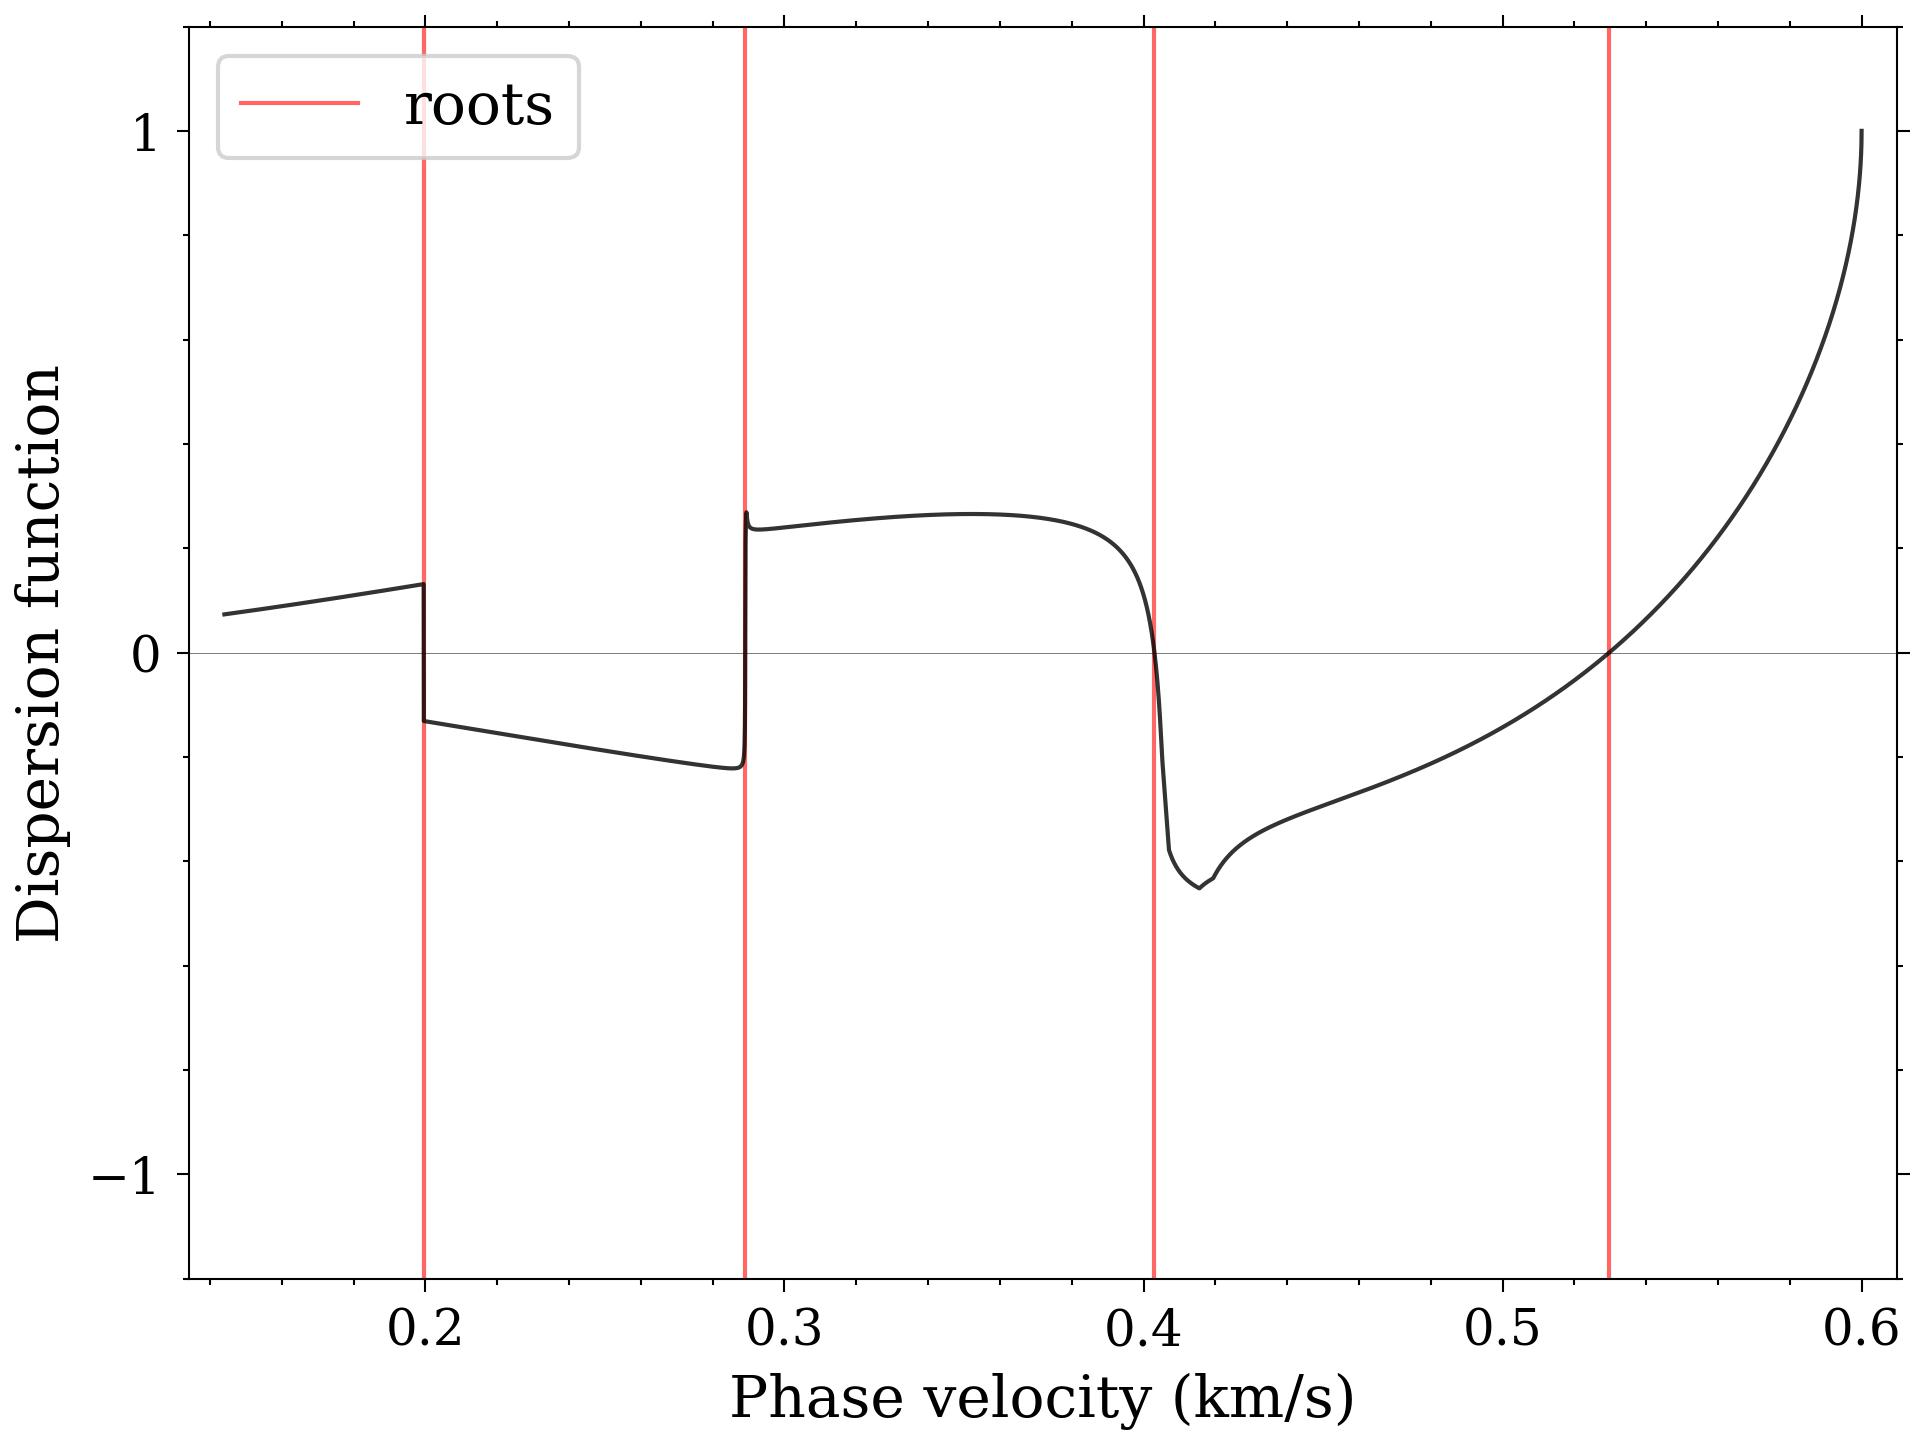
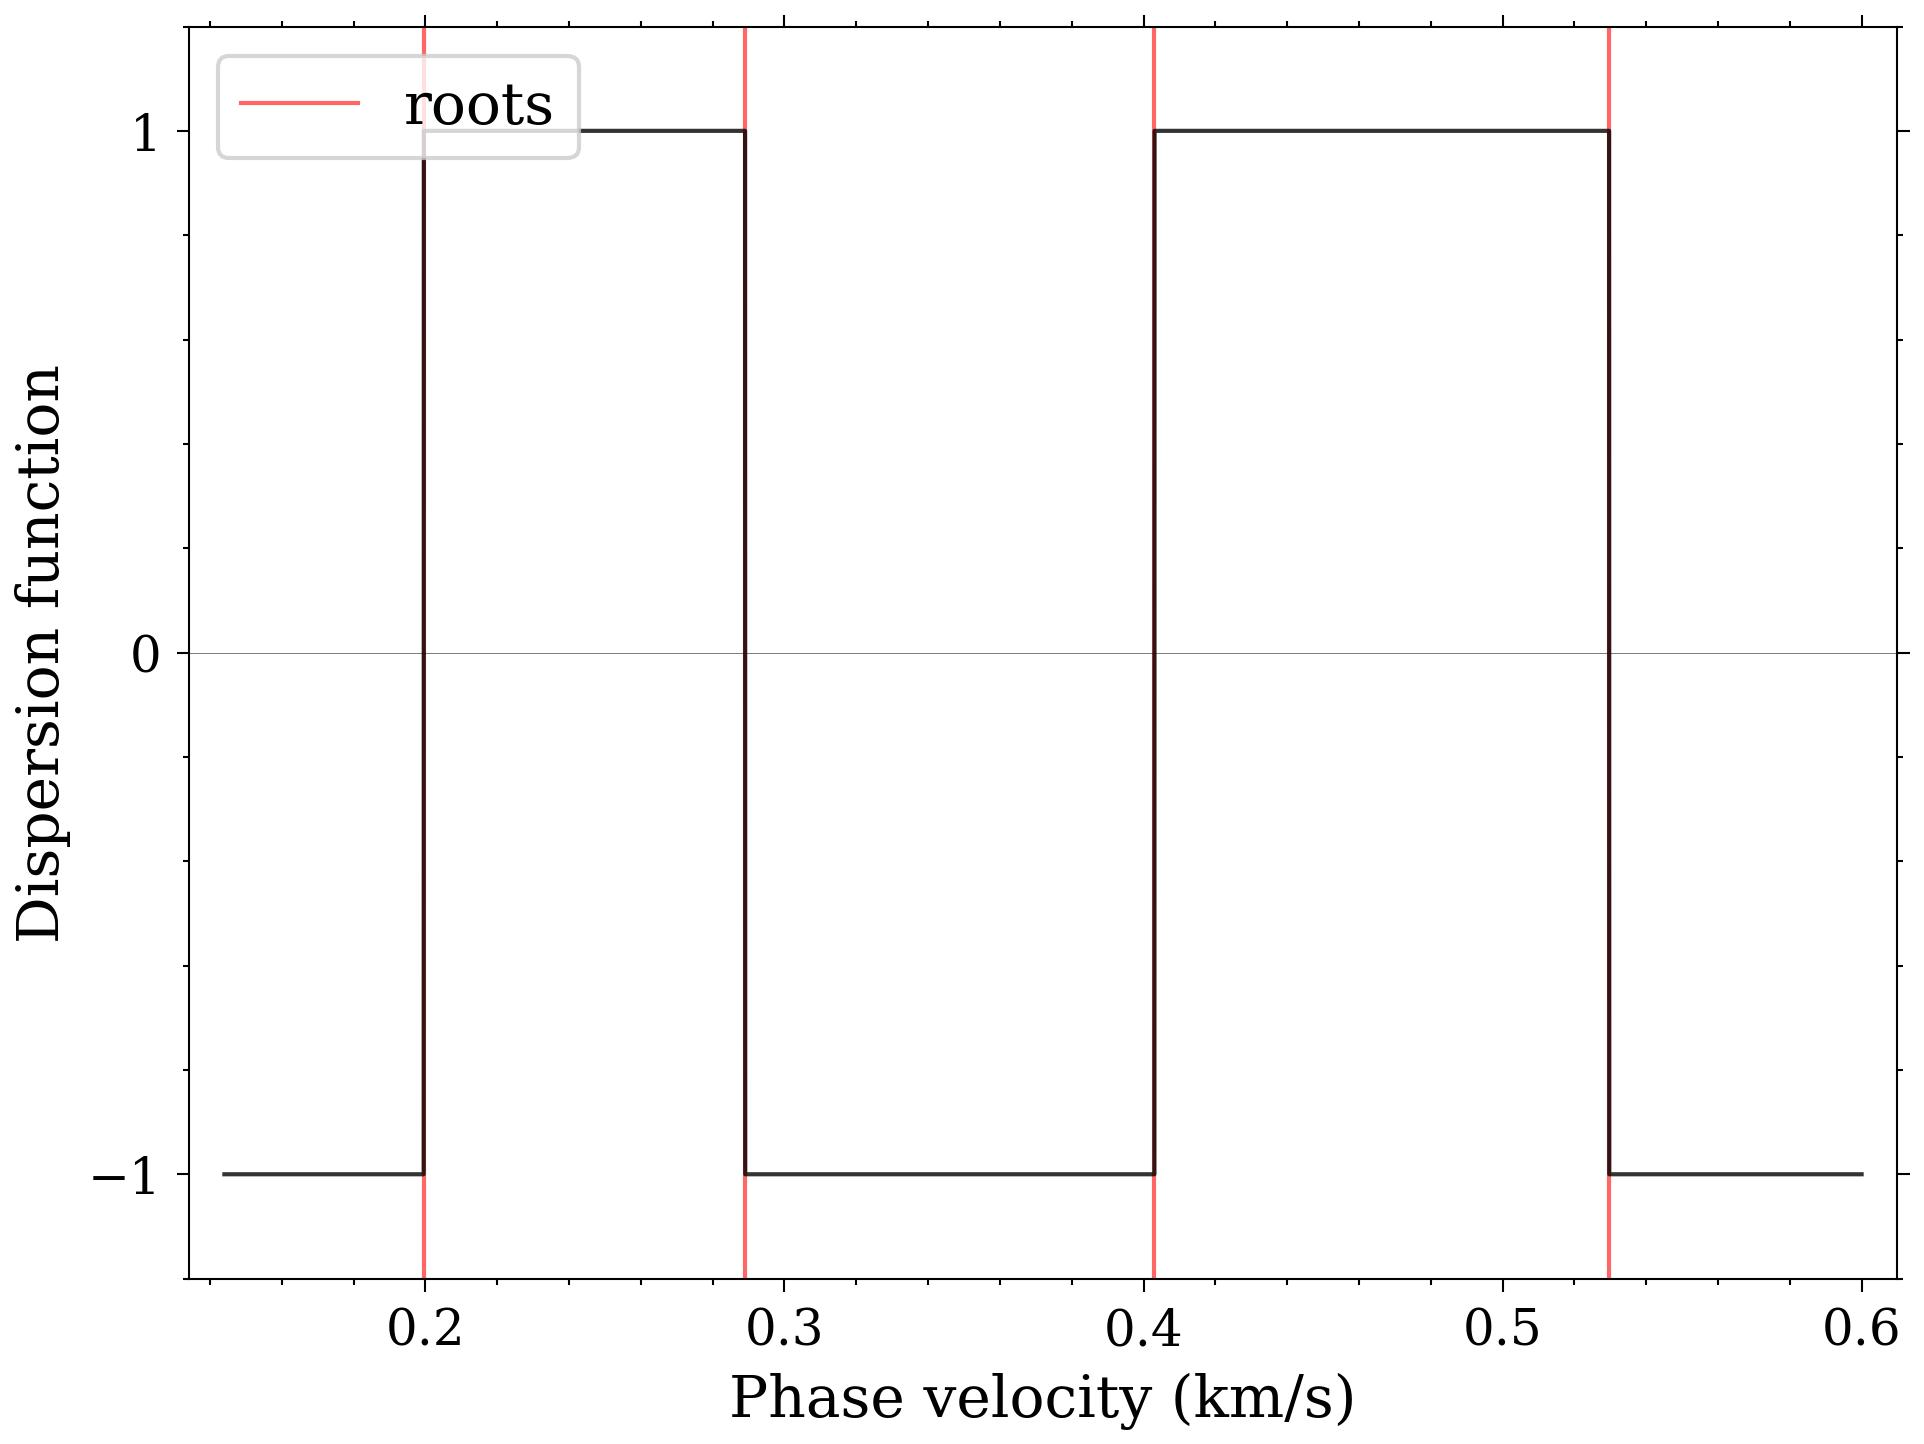
[fix] update readme

diff --git a/README.md b/README.md
@@ -1,7 +1,7 @@
 # mode-kissing
 Efficient Computation of Dispersion Curves in Low-velocity Layered Half-spaces
 
-A recurring challenge in practical scenarios involves models incorporating low-velocity layers, where the occurrence of ``mode-kissing'' and missing roots presents difficulties. In response to this issue, we present an algorithm designed to generate supplementary samples between neighboring roots at points of mode-kissing. This innovative approach leverages the fast delta matrix algorithm in conjunction with a root-searching technique. By incorporating additional samples, our proposed algorithm demonstrates remarkable efficacy and stability, establishing itself as a valuable tool with broad applicability in related fields.
+A recurring challenge in practical scenarios involves models incorporating low-velocity layers, where the occurrence of ``mode-kissing'' and missing roots presents difficulties. In response to this issue, we present an algorithm designed to generate supplementary samples between neighboring roots at points of mode-kissing. By incorporating additional samples, our proposed algorithm demonstrates remarkable efficacy and stability, establishing itself as a valuable tool with broad applicability in related fields.
 
 ## Dependencies
 
@@ -25,9 +25,7 @@ Install these external libraries according to the operating system, e.g. aptitud
 
 ## Examples
 
-There are four instances located in the directory [demo](./demo) corresponding to Model 1-4.
-For illustrative purposes on the computation of dispersion curves and 
-the generation of certain figures in our paper, we will focus on [model1](./demo/model1).
+There are an instance located in the directory [demo](./demo) corresponding to Model 1.
 
 ```bash
 > # the position here is the main directory of the program
@@ -51,25 +49,16 @@ The configuration file `config.toml` serves as the configuration file for the ex
 
     ```bash
     > ../../bin/secfunc 10
-    > ../../python/plot_secfunc.py secfunc.h5
+    > ../../python/plot_secfunc.py secfunc.h5 --sign --disp disp.txt
     ```
     The command is to compute the dispersion function at the frequency 10 Hz.
 
     <img src="./doc/secfunc_model1_f10.jpg" width="500" height="400">
 
-    To produce Figure 7(a), you can uncomment the line "cmin = 0.271" and "cmax = 0.284" in config.toml, then
-
-    ```bash
-    > ../../bin/secfunc 30.7
-    > ../../python/plot_secfunc.py secfunc.h5 --sample --sample_pred --xlim 0.271 0.284
-    ```
-
-    <img src="./doc/secfunc_model1_f30.7.jpg" width="500" height="400">
-
 
 3. **Calculation of dispersion curves if the proposed algorithm not applied**
     ```bash
-    > ../../bin/forward --lvl -1
+    > ../../bin/forward --raw
     > ../../python/plot_disp disp.txt
     ```
 
@@ -79,7 +68,7 @@ The configuration file `config.toml` serves as the configuration file for the ex
     ```bash
     > ../../bin/forward 
     > cp disp.txt disp_full.txt
-    > ../../bin/forward --lvl 2 
+    > ../../bin/forward --raw 
     > ../../python/plot_disp disp.txt --file_ref disp_full.txt
     ```
 
